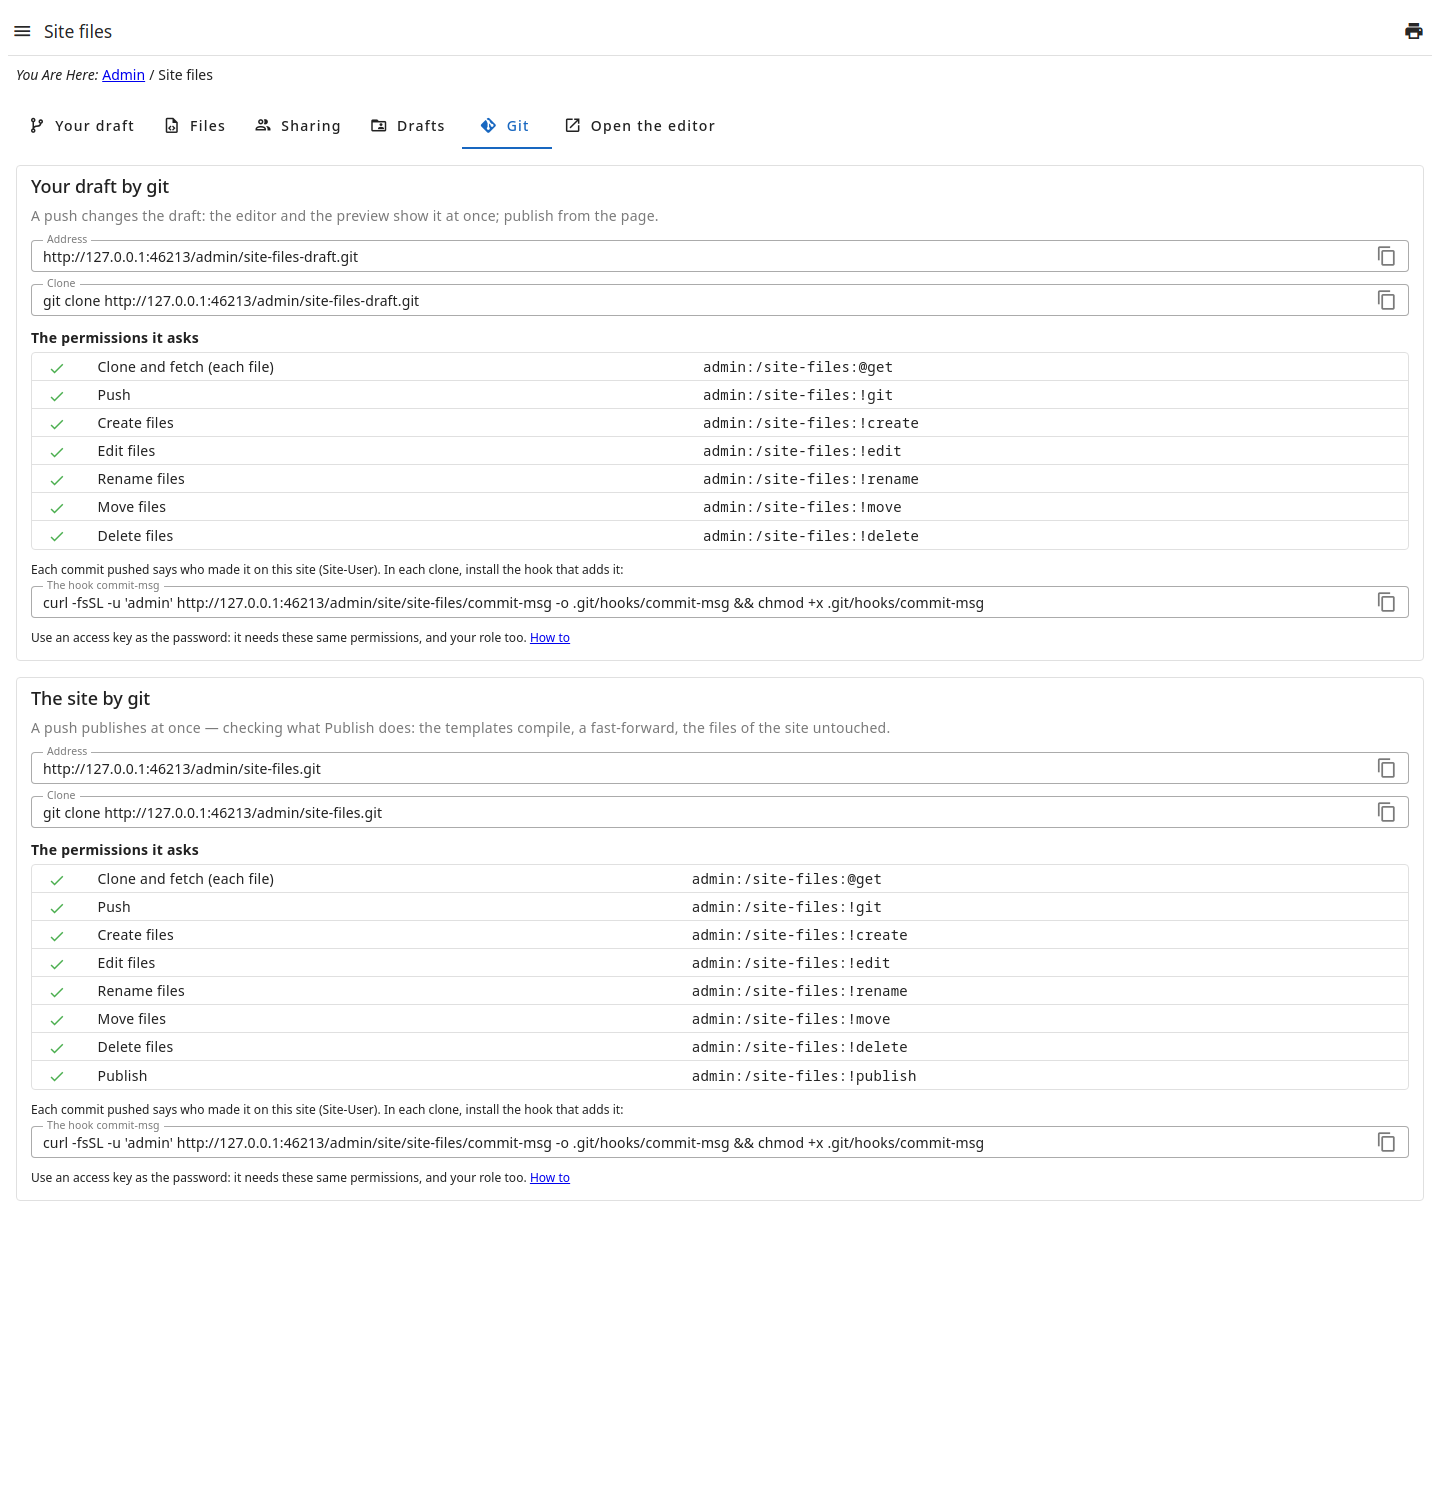
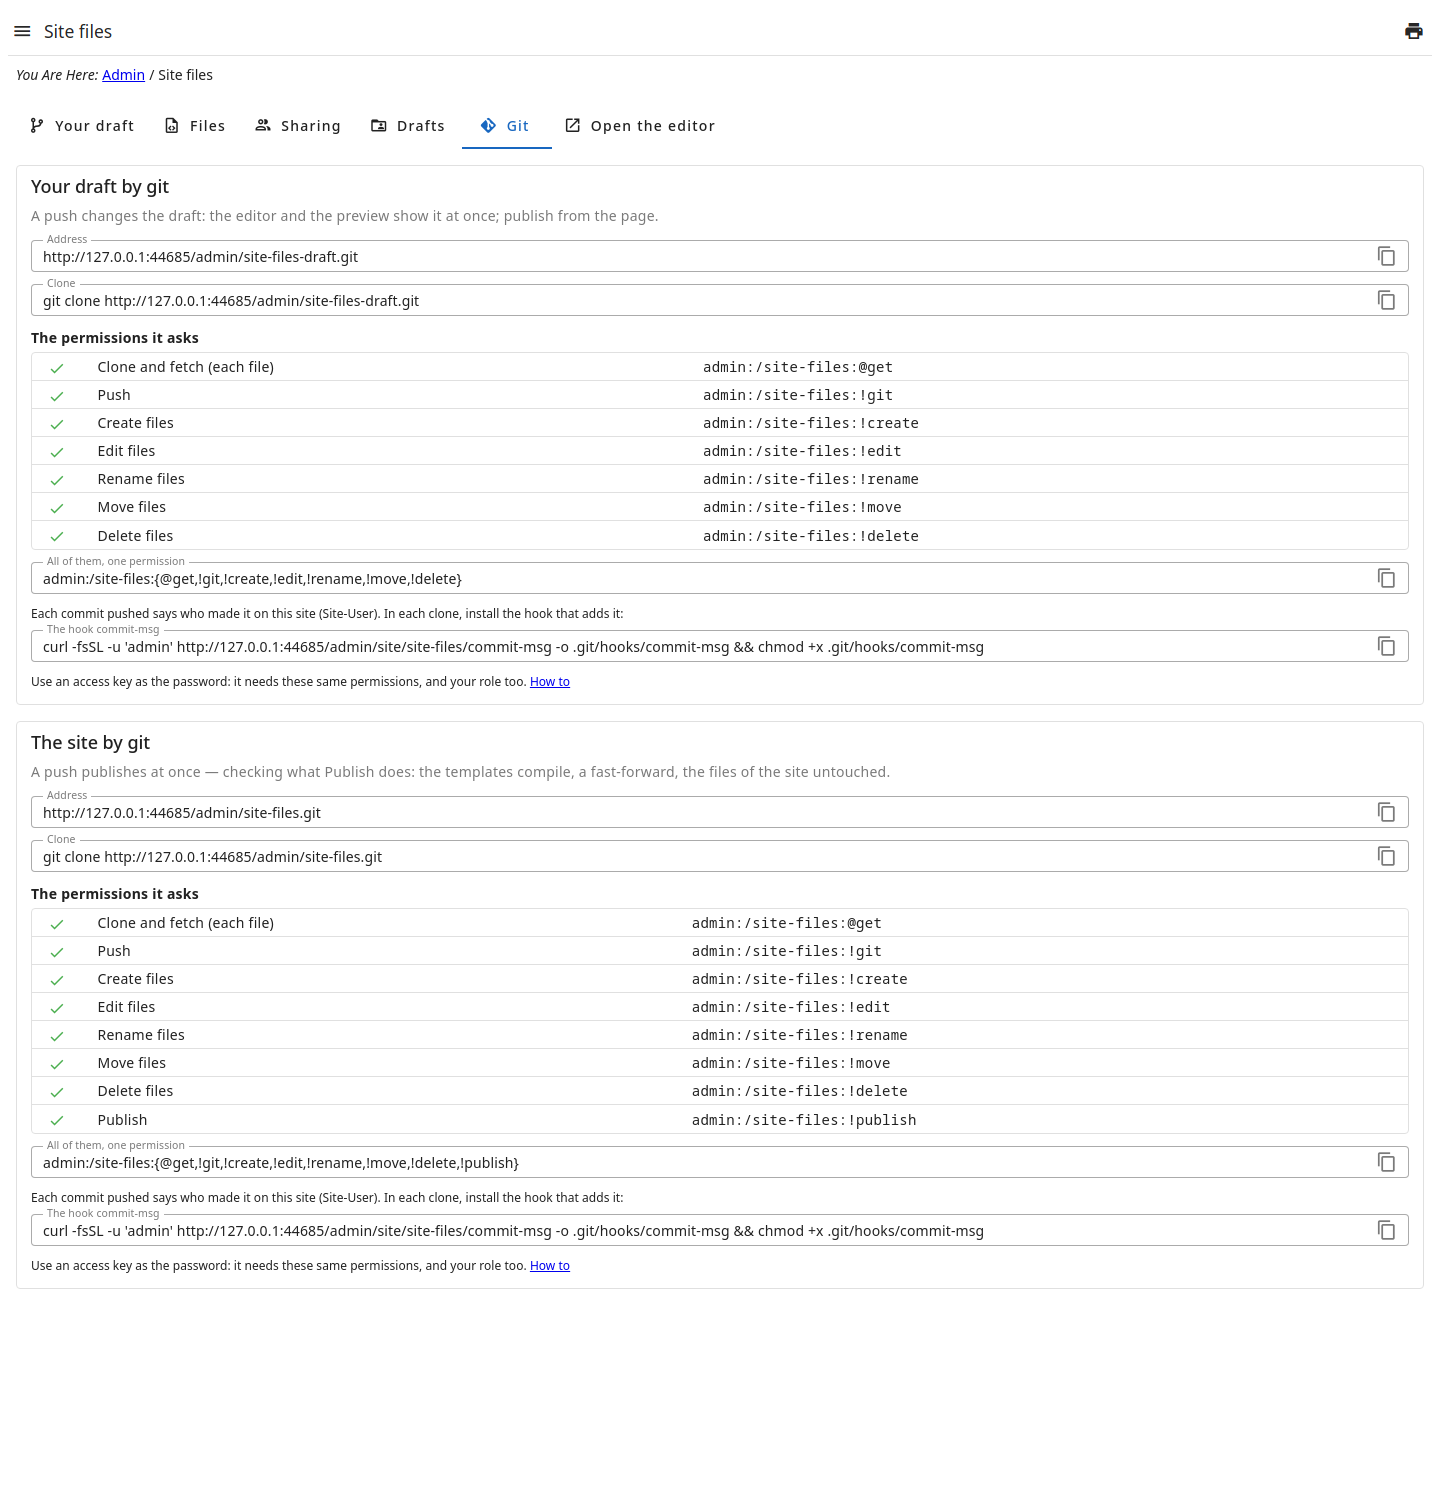
gitedit: a aba Git — as permissões que um repositório pede numa linha só (…:{@get,!git,…}), para copiar

diff --git a/admin/packages/gitedit/messages.go b/admin/packages/gitedit/messages.go
@@ -136,6 +136,7 @@ type Messages struct {
 	GitPermPush        string `i18n:"hint='A permission of a repository by git: pushing.'"`
 	GitKeyHint         string `i18n:"hint='Explains the access key for git.'"`
 	GitKeyHelp         string `i18n:"hint='Link to the documentation of git with an access key.'"`
+	GitPermsAll        string `i18n:"hint='Label of all the permissions a repository asks, as one (a policy).'"`
 }
 
 var Messages_en_US = &Messages{
@@ -249,6 +250,7 @@ var Messages_en_US = &Messages{
 	GitPermPush:        "Push",
 	GitKeyHint:         "Use an access key as the password: it needs these same permissions, and your role too.",
 	GitKeyHelp:         "How to",
+	GitPermsAll:        "All of them, one permission",
 }
 
 var Messages_pt_BR = &Messages{
@@ -362,4 +364,5 @@ var Messages_pt_BR = &Messages{
 	GitPermPush:        "Enviar (push)",
 	GitKeyHint:         "Use uma chave de acesso como senha: ela precisa destas mesmas permissões, e o seu papel também.",
 	GitKeyHelp:         "Como",
+	GitPermsAll:        "Todas, numa permissão",
 }

diff --git a/admin/packages/gitedit/git_view.go b/admin/packages/gitedit/git_view.go
@@ -72,8 +72,10 @@ func (b *Builder) gitSection(ctx *web.EventContext, m *Messages, kind, title, wh
 			Attr("@click:append-inner", fmt.Sprintf("navigator.clipboard.writeText(%q)", value))
 	}
 	var rows []h.HTMLComponent
+	var all []string
 	refused := false
 	for _, p := range perms {
+		all = append(all, p.perm)
 		icon, color := "mdi-check", "success"
 		if !p.ok {
 			icon, color, refused = "mdi-close", "error", true
@@ -106,6 +108,8 @@ func (b *Builder) gitSection(ctx *web.EventContext, m *Messages, kind, title, wh
 			h.H4(m.GitPermsTitle).Class("mt-2 mb-1"),
 			missing,
 			v.VTable(h.Tbody(rows...)).Density(v.DensityCompact).Class("mb-3"),
+			// all of them, one permission (a policy of a role, of a key)
+			copyField(m.GitPermsAll, base+"{"+strings.Join(all, ",")+"}", "data-git-perms"),
 			h.P(h.Text(m.GitHookHint)).Class("text-caption mb-2"),
 			copyField(m.GitHook, hook, "data-git-hook"),
 			key,

diff --git a/admin/packages/gitedit/builder_test.go b/admin/packages/gitedit/builder_test.go
@@ -511,6 +511,11 @@ func TestPageGit(t *testing.T) {
 		!strings.Contains(site, "example.com/admin/site-files.git") {
 		t.Error("the site's section: its URL, !publish its own")
 	}
+	// all of them, one permission, to copy
+	if !strings.Contains(draft, "admin:/site-files:{@get,!git,!create,!edit,!rename,!move,!delete}") ||
+		!strings.Contains(site, "admin:/site-files:{@get,!git,!create,!edit,!rename,!move,!delete,!publish}") {
+		t.Error("all the permissions, one: not shown")
+	}
 	if permOK(draft, "!git") != "ok" || permOK(site, "!publish") != "ok" {
 		t.Error("a permission had not marked ✓")
 	}

diff --git a/admin/packages/gitedit/user_docs/pt-BR/guides/site-files/08-git/README.md b/admin/packages/gitedit/user_docs/pt-BR/guides/site-files/08-git/README.md
@@ -22,7 +22,8 @@ git push
 ## As permissões de cada repositório
 
 A aba **Git** mostra, para cada repositório, as permissões que ele pede e
-quais você tem (✓) ou não (✗).
+quais você tem (✓) ou não (✗) — e, abaixo, todas numa permissão só
+(`…:{@get,!git,…}`), com um botão de copiar, para um papel ou uma chave.
 
 São as da página {%= admin.page("/site-files").link %} (passo **Permissões**),
 as mesmas do editor. Declaradas fora do grupo — valem onde quer que o menu

diff --git a/admin/packages/gitedit/user_docs/en/guides/site-files/08-git/README.md b/admin/packages/gitedit/user_docs/en/guides/site-files/08-git/README.md
@@ -22,7 +22,8 @@ git push
 ## The permissions of each repository
 
 The tab **Git** shows, for each repository, the permissions it asks and which
-you have (✓) or not (✗).
+you have (✓) or not (✗) — and, under them, all of them as one permission
+(`…:{@get,!git,…}`), with a button to copy it, for a role or a key.
 
 They are those of the page {%= admin.page("/site-files").link %} (step
 **Permissions**), the editor's own. Declared out of the group — they hold
